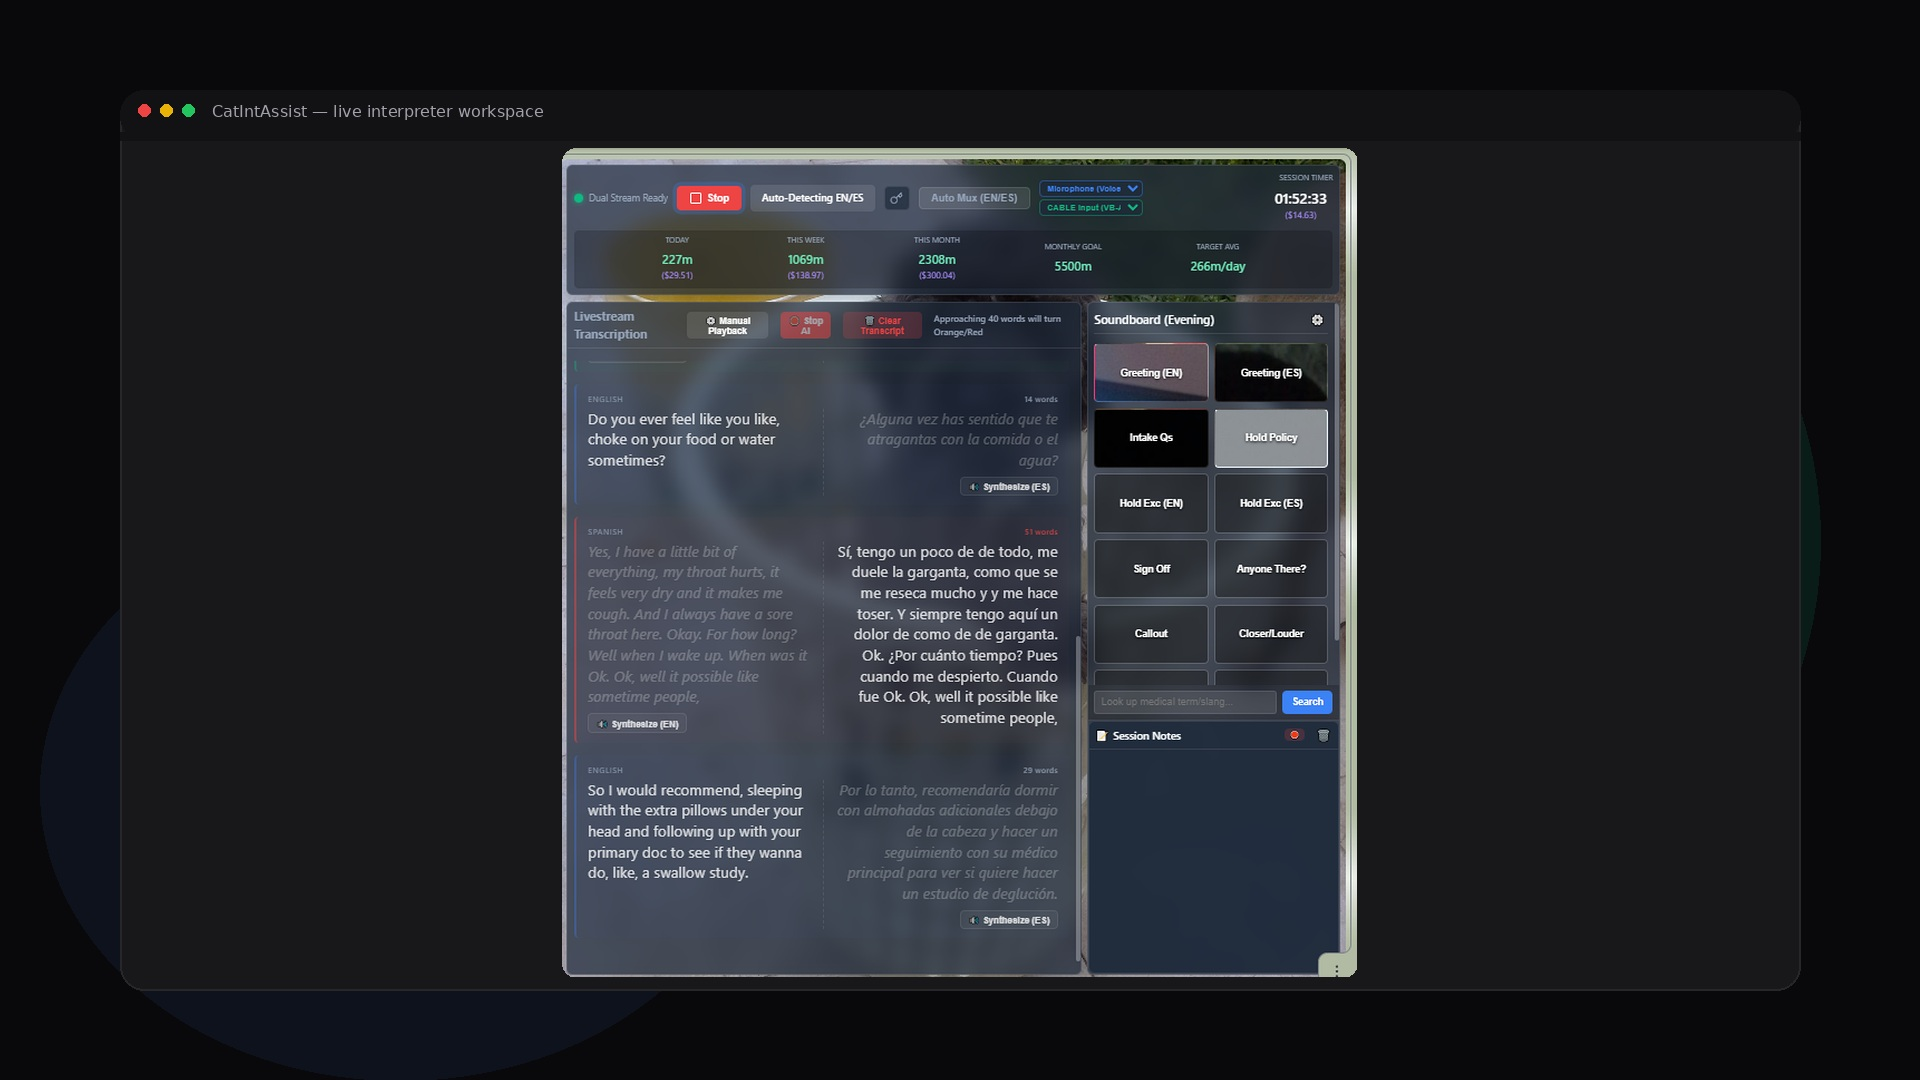
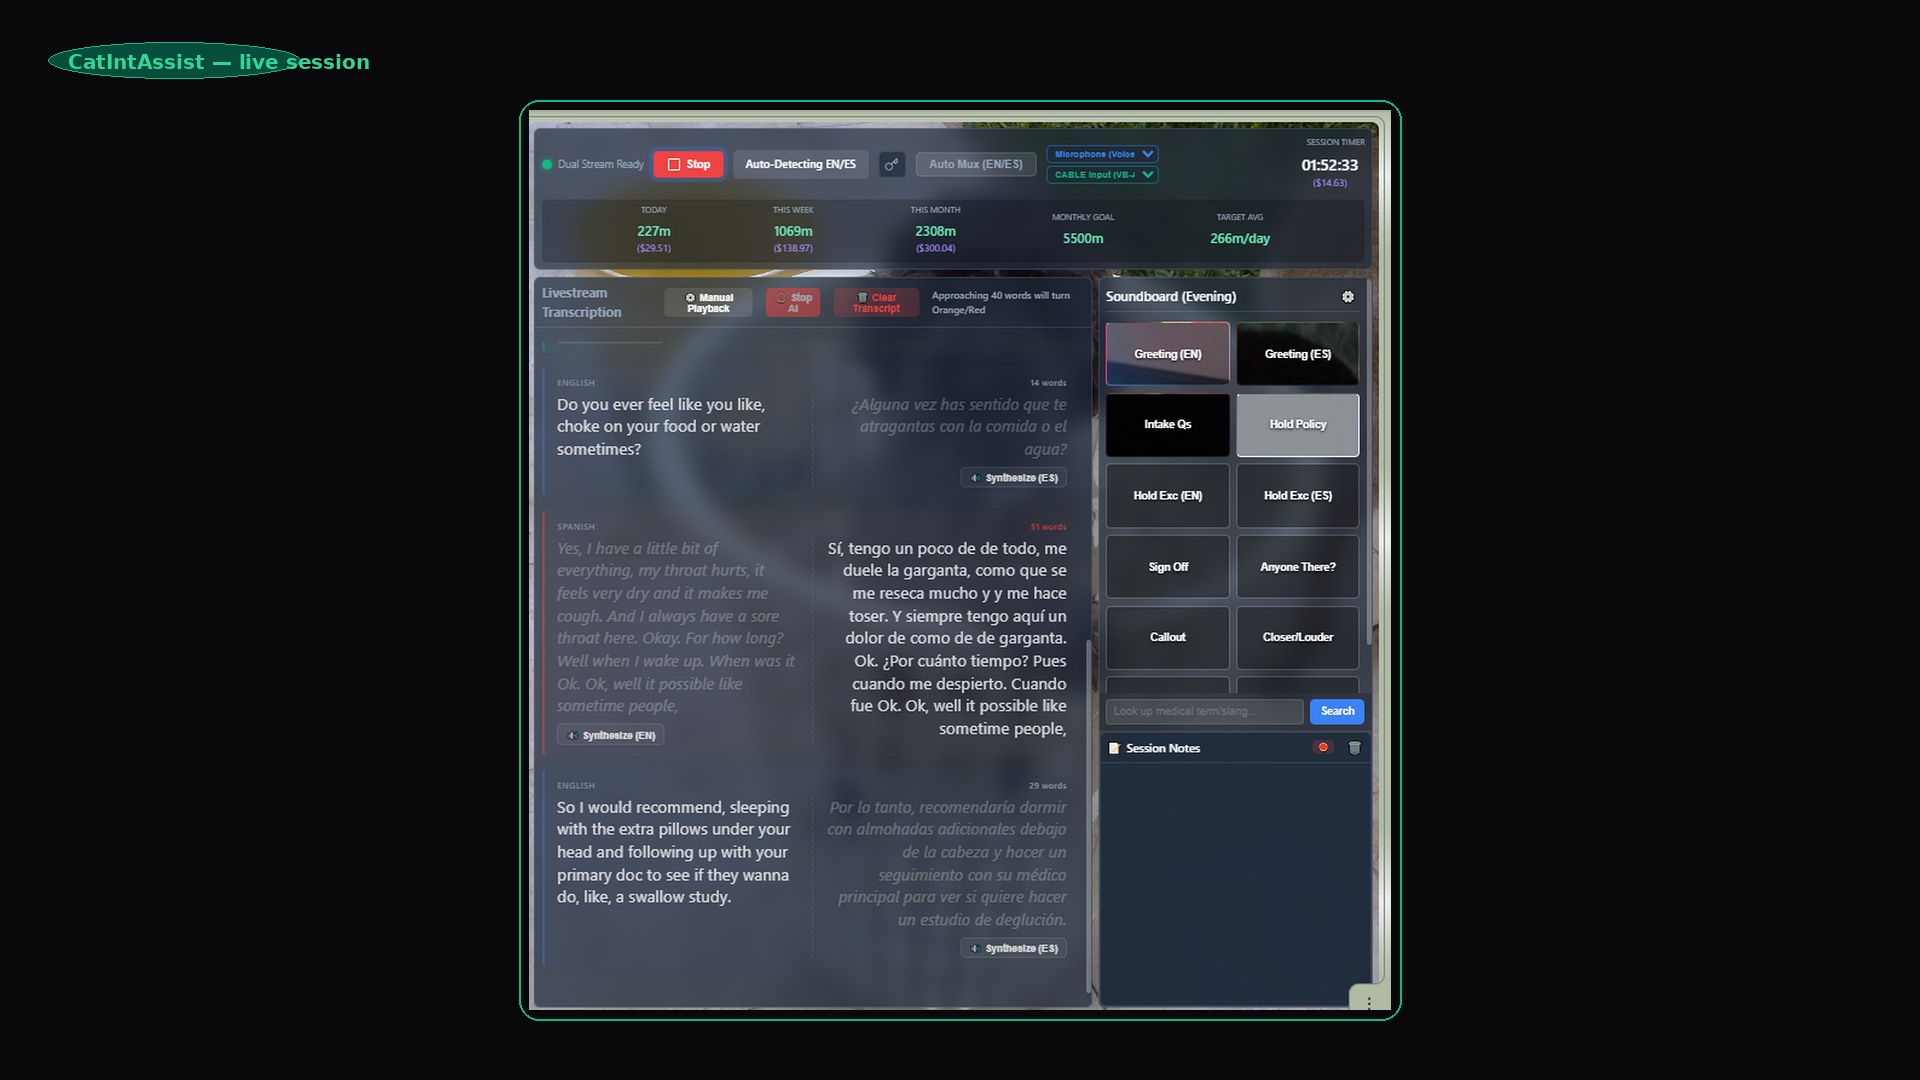
Use CatIntAssist thumb for previews and unify agent instructions in AGENTS.md

Changed region(s): [[0.1875, 0.0917, 0.75, 0.9472], [0.0312, 0.0306, 0.1875, 0.1222]]

diff --git a/index.html b/index.html
@@ -22,8 +22,8 @@
       property="og:description"
       content="Solo-built production apps for real workflows. CatIntAssist is my flagship proof-of-work project: a live medical-interpreter workspace used in paid sessions."
     />
-    <meta property="og:image" content="https://devtrivi.gatrivi.com/og-share.jpg?v=3" />
-    <meta property="og:image:secure_url" content="https://devtrivi.gatrivi.com/og-share.jpg?v=3" />
+    <meta property="og:image" content="https://devtrivi.gatrivi.com/og-share.jpg?v=4" />
+    <meta property="og:image:secure_url" content="https://devtrivi.gatrivi.com/og-share.jpg?v=4" />
     <meta property="og:image:type" content="image/jpeg" />
     <meta property="og:image:width" content="1200" />
     <meta property="og:image:height" content="630" />
@@ -41,7 +41,7 @@
       name="twitter:description"
       content="Solo-built production apps for real workflows. CatIntAssist is my flagship proof-of-work project used in live paid sessions."
     />
-    <meta name="twitter:image" content="https://devtrivi.gatrivi.com/og-share.jpg?v=3" />
+    <meta name="twitter:image" content="https://devtrivi.gatrivi.com/og-share.jpg?v=4" />
     <meta
       name="twitter:image:alt"
       content="gatrivi portfolio preview featuring CatIntAssist, a solo-built production medical interpreter workspace."

diff --git a/src/data/portfolio.ts b/src/data/portfolio.ts
@@ -179,7 +179,7 @@ export const FEATURED_PROJECTS: FeaturedProject[] = [
       'Inline number editor — correct misheard digits without breaking flow',
     ],
     screenshots: [
-      { src: '/catintassist1.png', caption: 'Live dual-column workspace: English and Spanish streams side by side with suggested translation, soundboard, and session metrics.' },
+      { src: '/catintassist-thumb.png', caption: 'Live dual-column workspace: English and Spanish streams side by side with suggested translation, soundboard, and session metrics.' },
       { src: '/catintassist-dashboard.png', caption: 'Production scoreboard: daily goals, earnings, off-call tracking, and sprint progress in one interpreter-first dashboard.' },
       { src: '/catintassist.png', caption: 'Full session HUD with live transcript, dialer context, and gamified earnings view during an active call.' },
       { src: '/catintassist2.png', caption: 'Medical terminology support: uncommon orthopedics terms get suggested equivalents so the interpreter can decide fast.' },

diff --git a/AGENTS.md b/AGENTS.md
@@ -1,26 +1,51 @@
-## CATPHOLIO1 — Agent Context
+# AGENTS.md — read this first
 
-### Last Session (2026-04-28)
-- **Repo:** `C:\zengatrivi\REACTJS\Catpholio1`
-- **User handle:** `gatrivi` (GitHub/X/LinkedIn/Carrd/Upwork)
-- **Old GH account:** `devtrivi` (legacy projects)
+**Single source of truth for all agents** (Cursor, Kimi, Gemini, etc.).  
+Other instruction files defer here.
 
-### What Was Done
-- Personalized README, package.json name, fixed Twitter→X URL
-- Added dual-link project cards (live site + GitHub repo icons)
-- Linked all GH repos: `challenge-zero`, `cathedral`, `catintassist`, `Rosario-cards-v1`, `catreader`, `catthreader`, `catbookletinduction`
-- **New sections:** Skills (6-category grid), Experience (timeline), Contact (form + mailto fallback)
-- Enhanced Projects with `highlights` bullet arrays per card
-- Fixed OG image (`/devtrivi-profile.jpg`), added 🐈 favicon
-- CV download slot reserved but not yet enabled (needs PDF link)
+## Project
+- **Name:** Catpholio (`gatrivi` developer portfolio)
+- **Repo:** `gatrivi/Catpholio1`
+- **User:** `gatrivi` (GitHub/X/LinkedIn; legacy GH: `devtrivi`)
+- **Goal:** Get hired ASAP by proving real production work via CatIntAssist flagship case study
 
-### Data You Need to Fill In
-- `src/content.ts` → `EXPERIENCE` array: replace the ZengaSoft placeholder and the 3rd template entry with real roles
-- `src/content.ts` → `SKILLS`: adjust proficiency levels if needed
-- `src/content.ts` → `CONTACT.formEndpoint`: hook up Formspree/Web3Forms if you want serverless submission instead of mailto
-- `src/content.ts` → `BRAND.cv` and `Contact.tsx`: uncomment CV download when PDF ready
+## Deploy
+- **Branch:** `main` (principal branch for this repo)
+- **Host:** Vercel — push to `main` auto-deploys
+- **Domain:** `https://devtrivi.gatrivi.com` (production = test; sole dev)
+- **Before push:** `npm run lint` && `npm run build`
 
-### Architecture
-- Vite + React 19 + TypeScript + Tailwind CSS v4 + Framer Motion (`motion/react`)
-- All content lives in `src/content.ts` — no need to touch components for text updates
-- Section order in `App.tsx`: Hero → Skills → Experience → Projects → Gallery → Contact → Footer
+## Stack
+- React 19 + Vite 6 + TypeScript + Tailwind v4 + Framer Motion (`motion/react`)
+- Content in `src/data/*.ts`, re-exported via `src/content.ts`
+- Routes: `/` portfolio, `/store` app store, `/store/digital-menu` legacy product page
+
+## Flagship project: CatIntAssist
+- First entry in `FEATURED_PROJECTS` (`src/data/portfolio.ts`)
+- Proof-of-work fields: `proof`, `workflow`, `features`, `badges`
+- Thumbnail source: `public/catintassist-thumb.png`
+- Hero image: `public/catintassist-hero.jpg`
+- Social preview: `public/og-share.jpg` (meta in `index.html`, absolute URLs)
+
+## Coding rules
+1. Minimal scope — smallest correct diff
+2. Match existing conventions in surrounding code
+3. Content changes → edit `src/data/portfolio.ts`, not components
+4. Never stretch small images to fill tall layouts
+5. OG/Twitter images need absolute URLs + safe-zone text
+
+## Reference docs (open only when needed)
+| File | Contents |
+|------|----------|
+| `docs/SESSION_CONTEXT.md` | Session history, file map, open items |
+| `HIRING_PATH_CATINTASSIST.md` | Hiring strategy around CatIntAssist |
+| `PROJECT_AUDIT.md` | Full repo audit |
+| `APP_STATUS.md` | Multi-view app overview |
+
+## Data still to fill
+- `EXPERIENCE` → replace `20XX — Present` with real dates
+- `CONTACT.formEndpoint` → Formspree/Web3Forms if wanted
+- CV PDF link when ready
+
+## Last updated
+2026-06-05 — flagship proof view, image quality fix, unified agent instructions

diff --git a/kimi.md b/kimi.md
@@ -1,40 +1,8 @@
 # kimi.md
 
-This file contains instructions to ensure Kimi Code remains accurate, stays in scope, and retains project context across sessions.
+**Defer to `AGENTS.md` for all project instructions.**
 
-## 1. The Core Reliability Rules
-* **Ask, don't assume:** If something is unclear, ask before writing a single line. Never make silent assumptions about intent, architecture, or requirements.
-* **Simplest solution first:** Always implement the simplest thing that could work. Do not add abstractions or flexibility that weren't explicitly requested.
-* **Don't touch unrelated code:** If a file or function is not directly part of the current task, do not modify it, even if you think it could be improved.
-* **Flag uncertainty explicitly:** If you are not confident about an approach or technical detail, say so before proceeding.
-
-## 2. Communication Preferences
-* **No Preamble:** Never open responses with filler phrases like "Great question!" or "Certainly!". Start every response with the actual answer.
-* **Match Length to Task:** Keep responses as concise or detailed as the task requires. No padding.
-* **Show Options:** Before significant tasks, present 2-3 approaches and wait for confirmation.
-* **Voice:** laconic
-
-## 3. Behavioral Guardrails
-* **Confirm Before Big Changes:** Stop and ask for confirmation before restructuring code, changing tone, or rewriting large sections.
-* **Destructive Actions:** Explicitly ask for confirmation before deleting files, overwriting code, or dropping database records.
-* **Hard Stops:** Deploying, pushing, running migrations, or executing external API calls requires explicit in-session confirmation ("yes") in the current message.
-* **Transparency:** After every coding task, output:
-    * **Files changed:** (list)
-    * **What was modified:** (one line per file)
-    * **Files intentionally not touched:**
-    * **Follow-up needed:**
-
-## 4. Memory & Tech Stack
-* **Maintain MEMORY.md:** Log major decisions (What/Why/Rejected). Read this at the start of every session.
-* **Maintain ERRORS.md:** Log approaches that took >2 attempts to work. Check this before suggesting solutions.
-* **Session Summaries:** When I say "session end," summarize: Work done, decisions made, and next priorities.
-* **Lock Tech Stack:** * Language: JS
-    * Framework: React
-    * Package Manager: Yarn
-    * Database/Other: Firebase
-    * *Do not suggest alternatives unless explicitly asked.*
-
-## 5. Context
-* **Role/Background:** name is gatrivi. MERN developer interested in meditation, writing, church, gurdjieff, vipassana
-* **Project Goals:** [Specific project objective]
-* **Constraints:** [List specific things to avoid or non-negotiable rules]
+Kimi-specific overrides only:
+- Voice: laconic
+- Ask before destructive actions (delete, overwrite, push)
+- Log decisions in `docs/SESSION_CONTEXT.md` when session ends

diff --git a/docs/SESSION_CONTEXT.md b/docs/SESSION_CONTEXT.md
@@ -1,0 +1,53 @@
+# Session Context (reference only)
+
+> Agents: read `AGENTS.md` first. Open this file only when you need history.
+
+## Goal
+Turn Catpholio into a hiring asset. CatIntAssist is the flagship proof-of-work project for a solo developer with no formal dev job history.
+
+## Live URLs
+- Portfolio/test/prod: `https://devtrivi.gatrivi.com`
+- Principal branch: `main` (Vercel auto-deploys on push)
+- Other live projects: `rosario.gatrivi.com`, `cathedral.gatrivi.com`
+
+## Deploy rule
+Push to `main`. Vercel updates deploy + custom domain. No separate staging; production and test are the same.
+
+## Work completed (2026-06-05)
+1. Flagship proof view for CatIntAssist (`proof` data model, featured card, gallery proof panel)
+2. Hiring roadmap → `HIRING_PATH_CATINTASSIST.md`
+3. Social preview fixes (OG/Twitter meta, absolute URLs, `og-share.jpg`)
+4. Image quality fixes:
+   - Featured card stopped stretching small screenshots to content height
+   - `catintassist-hero.jpg` for portfolio card
+   - `catintassist-thumb.png` canonical thumbnail source (= live dual-column UI)
+   - Removed broken gallery paths (`catintassist-feature-7.png` … `16` never existed)
+
+## Key files
+| File | Purpose |
+|------|---------|
+| `src/data/portfolio.ts` | All portfolio content, CatIntAssist flagship data |
+| `src/components/ProjectCard.tsx` | Featured + standard project cards |
+| `src/components/ProjectGallery.tsx` | Proof/details modal |
+| `index.html` | OG + Twitter Card meta |
+| `public/catintassist-thumb.png` | Canonical thumbnail screenshot |
+| `public/catintassist-hero.jpg` | Featured card hero |
+| `public/og-share.jpg` | Social share image |
+
+## Image rules
+- Never stretch low-res screenshots to match text column height
+- Featured card: fixed aspect, `object-contain`, `lg:self-start`
+- OG image: absolute URL, text in top safe zone, cache-bust with `?v=N`
+- Thumbnail source: `catintassist-thumb.png` (dual-column live session UI)
+
+## Open items
+- Replace `20XX — Present` in Medical Interpreter experience
+- Add CV PDF download when ready
+- Dedicated `/projects/catintassist` case study route
+- CatIntAssist repo README polish
+- User may supply updated CatIntAssist copy/material
+
+## GitHub
+- Repo: `gatrivi/Catpholio1`
+- User: `gatrivi` (legacy: `devtrivi`)
+- Email: `devtrivi@zengasoft.com`

diff --git a/GEMINI.md b/GEMINI.md
@@ -1,16 +1,7 @@
-# Gemini CLI Agent: System Instructions
+# GEMINI.md
 
-## 1. Documentation & Context
-* **Doc-First Approach:** Always verify current project documentation (`README.md`, `docs/`, or internal wikis) before proposing architectural changes, altering state management, or adding new dependencies.
+**Defer to `AGENTS.md` for all project instructions.**
 
-## 2. Version Tracking Protocol (Strict)
-* **CLI Output:** Every single response or message you generate in the terminal MUST conclude with the current working version number (e.g., `- v1.2.4`). 
-* **UI Synchronization:** You must ensure the current version number is programmatically exposed and rendered visibly within the application's UI. This is critical for visually verifying that the deployed code matches the working version.
-
-## 3. Deployment Standards (Vercel)
-* **Vercel-Ready Code:** All code modifications must maintain compatibility with Vercel deployment pipelines.
-* **Pre-Push Checks:** Before finalizing a task, ensure that standard Vite/React build commands (`npm run build`) execute successfully without TypeScript errors, unresolved imports, or broken CSS grids. 
-
-## 4. Git Operations
-* **Automated Sync:** Upon completing a feature or fix, and confirming the build is stable, automatically stage the changes.
-* **Commit & Push:** Generate a descriptive commit message detailing the changes, commit the staged files, and push directly to the configured GitHub remote.
+Gemini-specific overrides only:
+- Run `npm run build` before push
+- Push to `main` on Vercel after confirmed stable build
